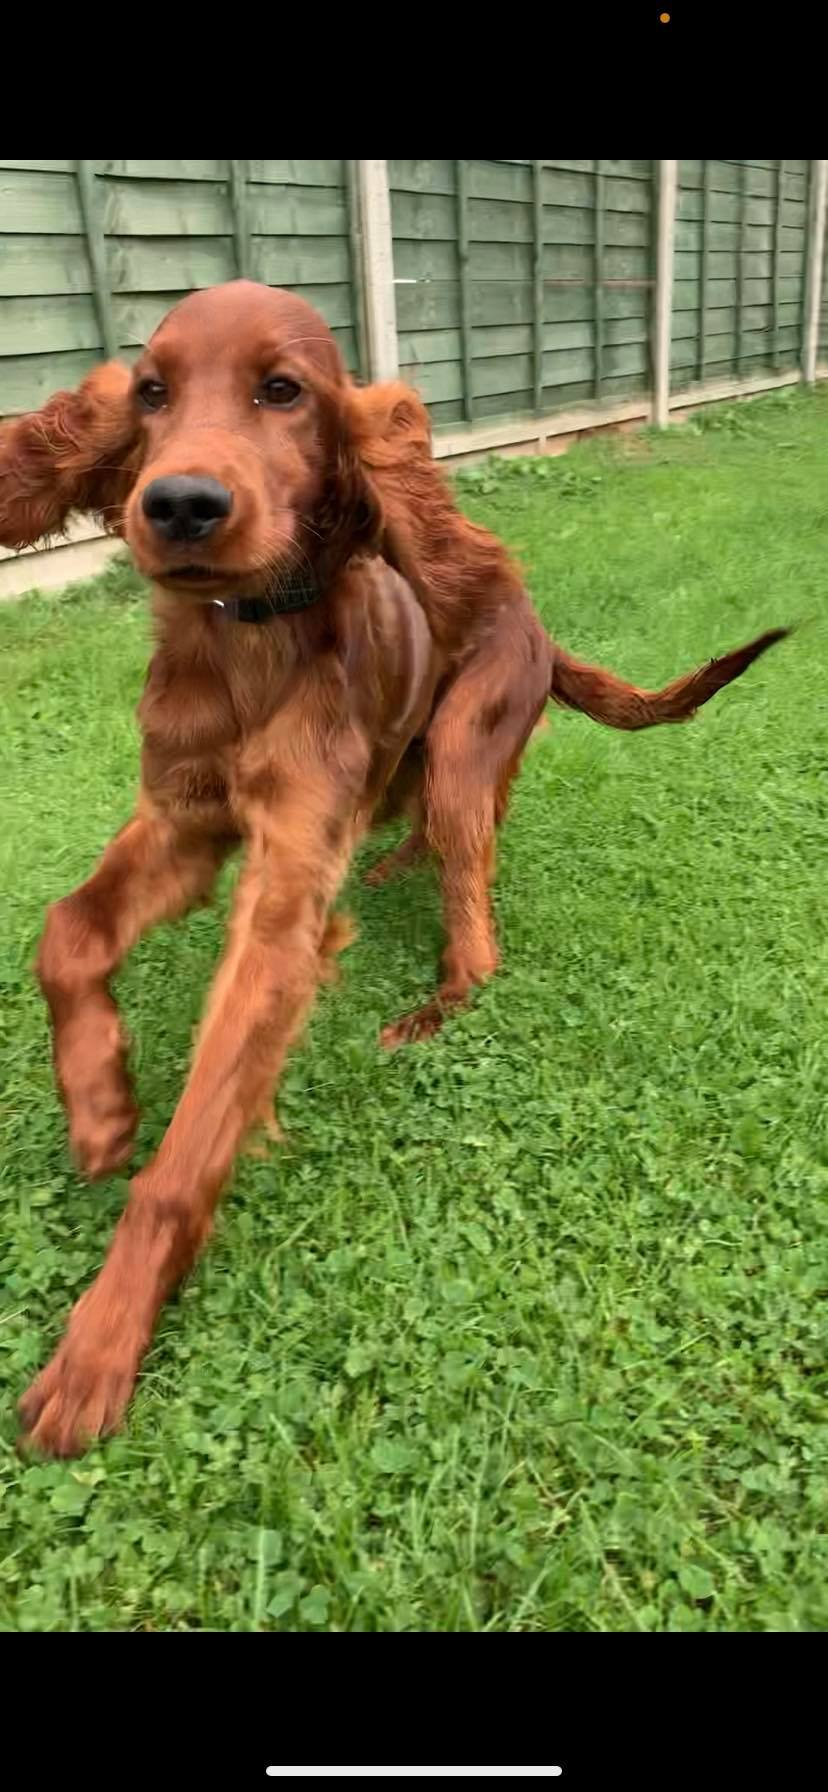
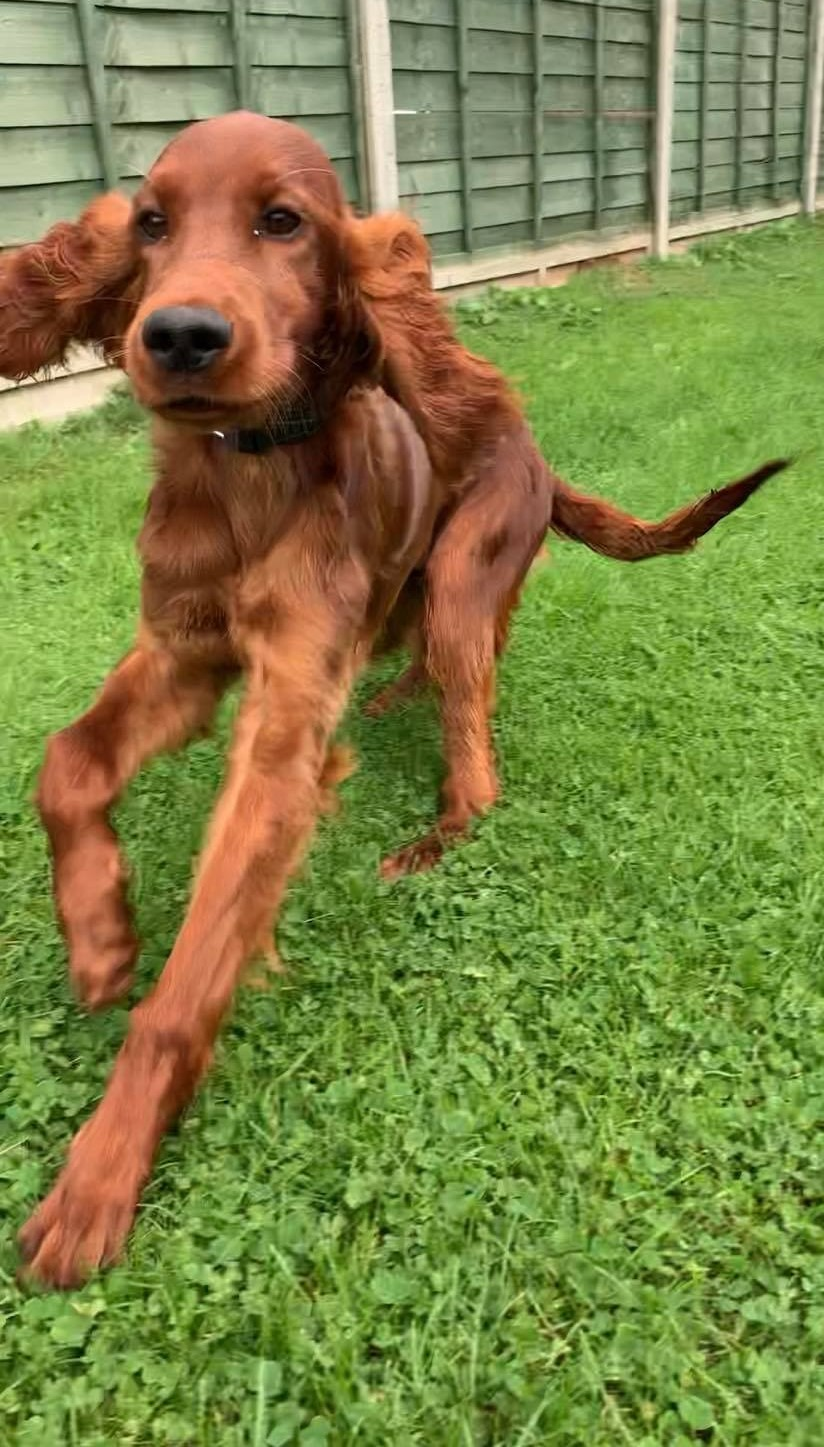
images cropped and rendered inside overflow containers. hover effects to come...

diff --git a/src/components/Gallery.jsx b/src/components/Gallery.jsx
@@ -1,10 +1,13 @@
 import React from 'react';
+import '../css/gallery.css';
 
 export default function Gallery(props) {
 	return (
 		<section className='gallery'>
 			{props.images.map((image, i) => (
-				<img src={image} alt='' key={i} />
+				<div className='overflow-container'>
+					<img src={image} alt='' key={i} />
+				</div>
 			))}
 		</section>
 	);
